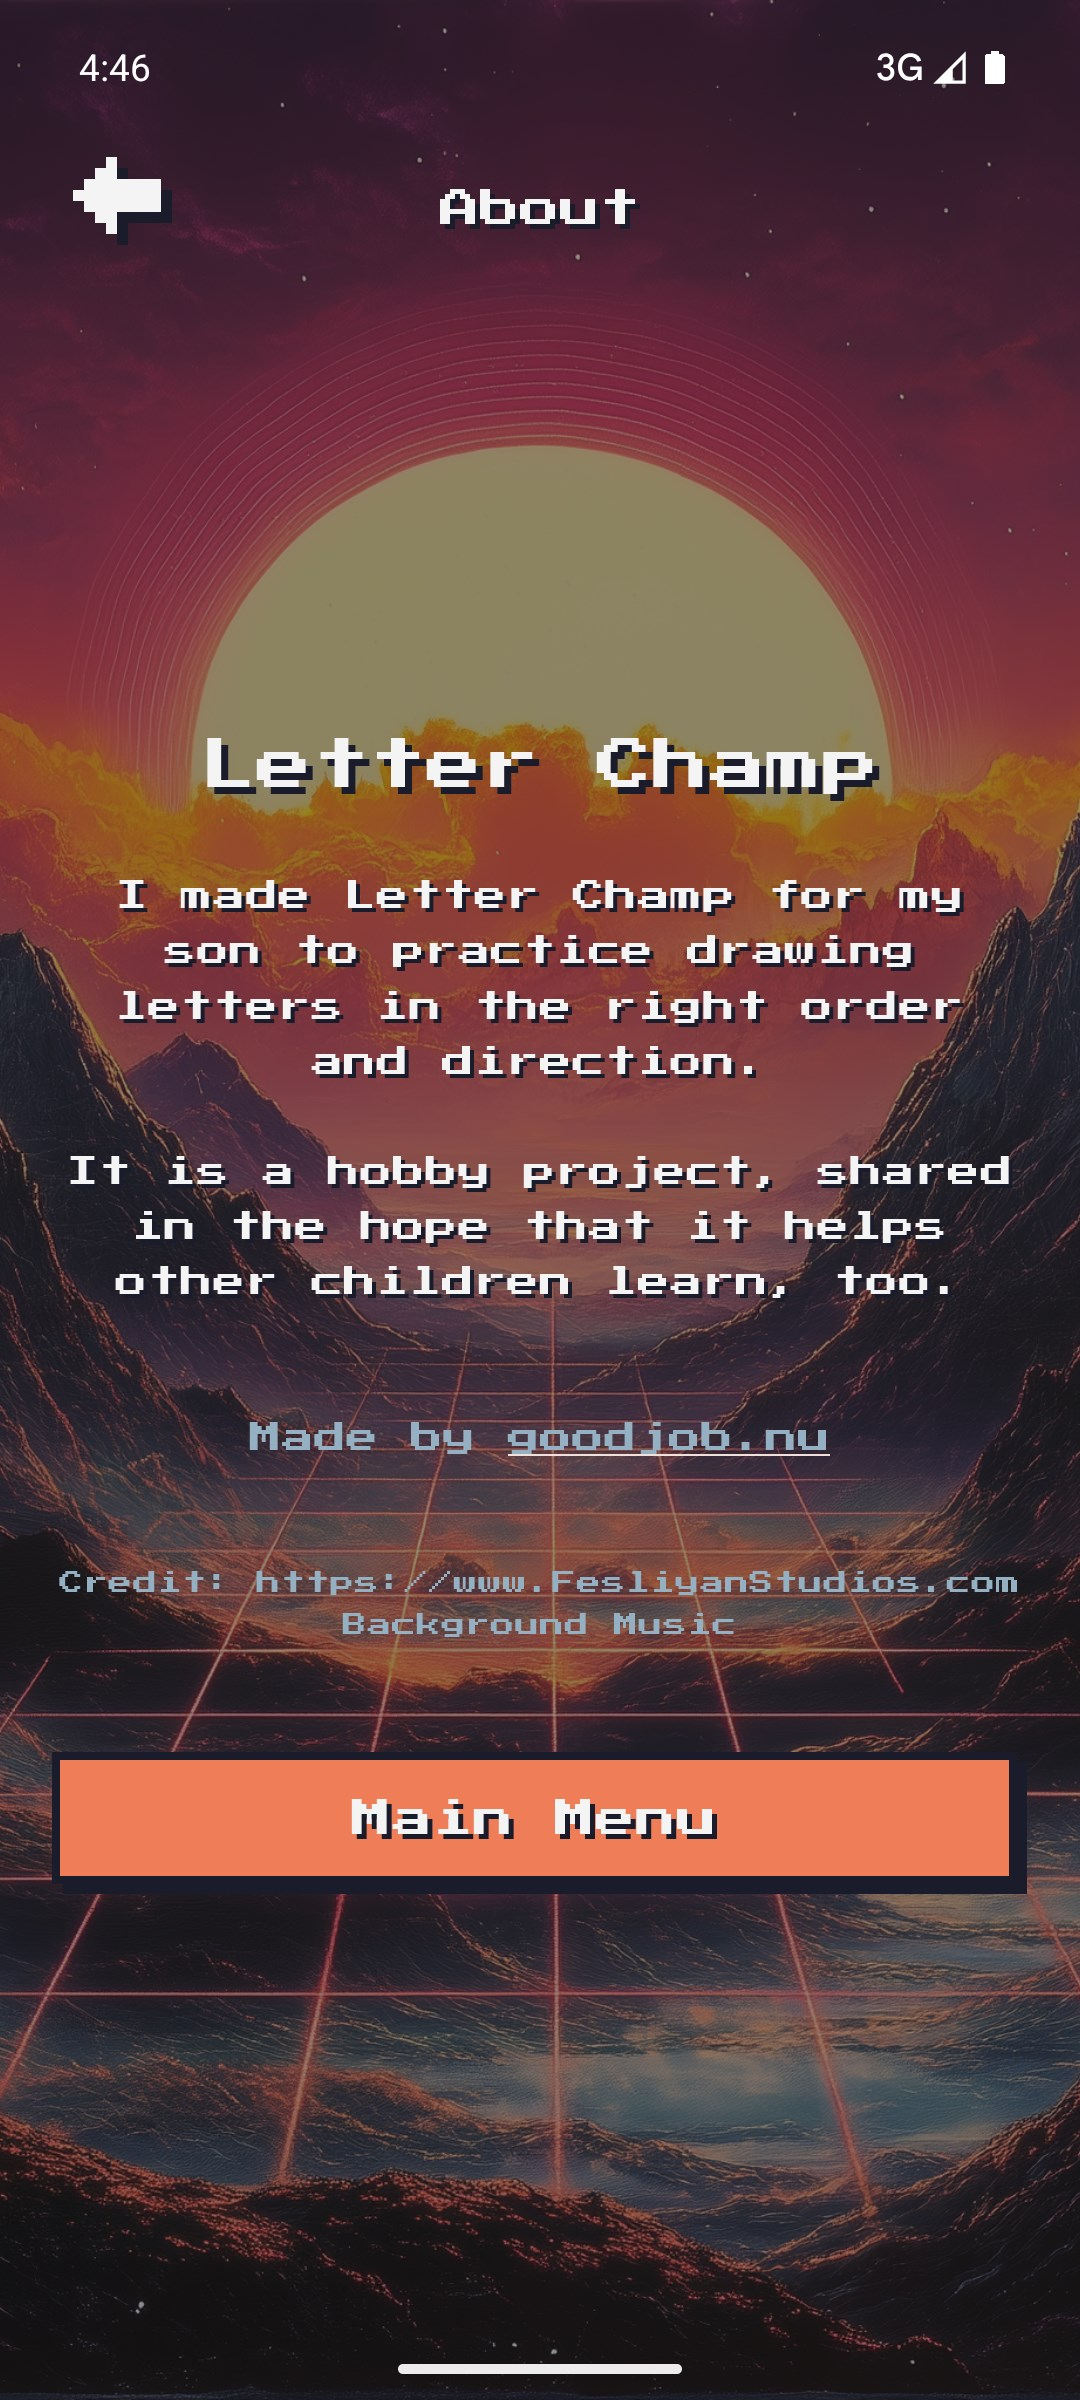
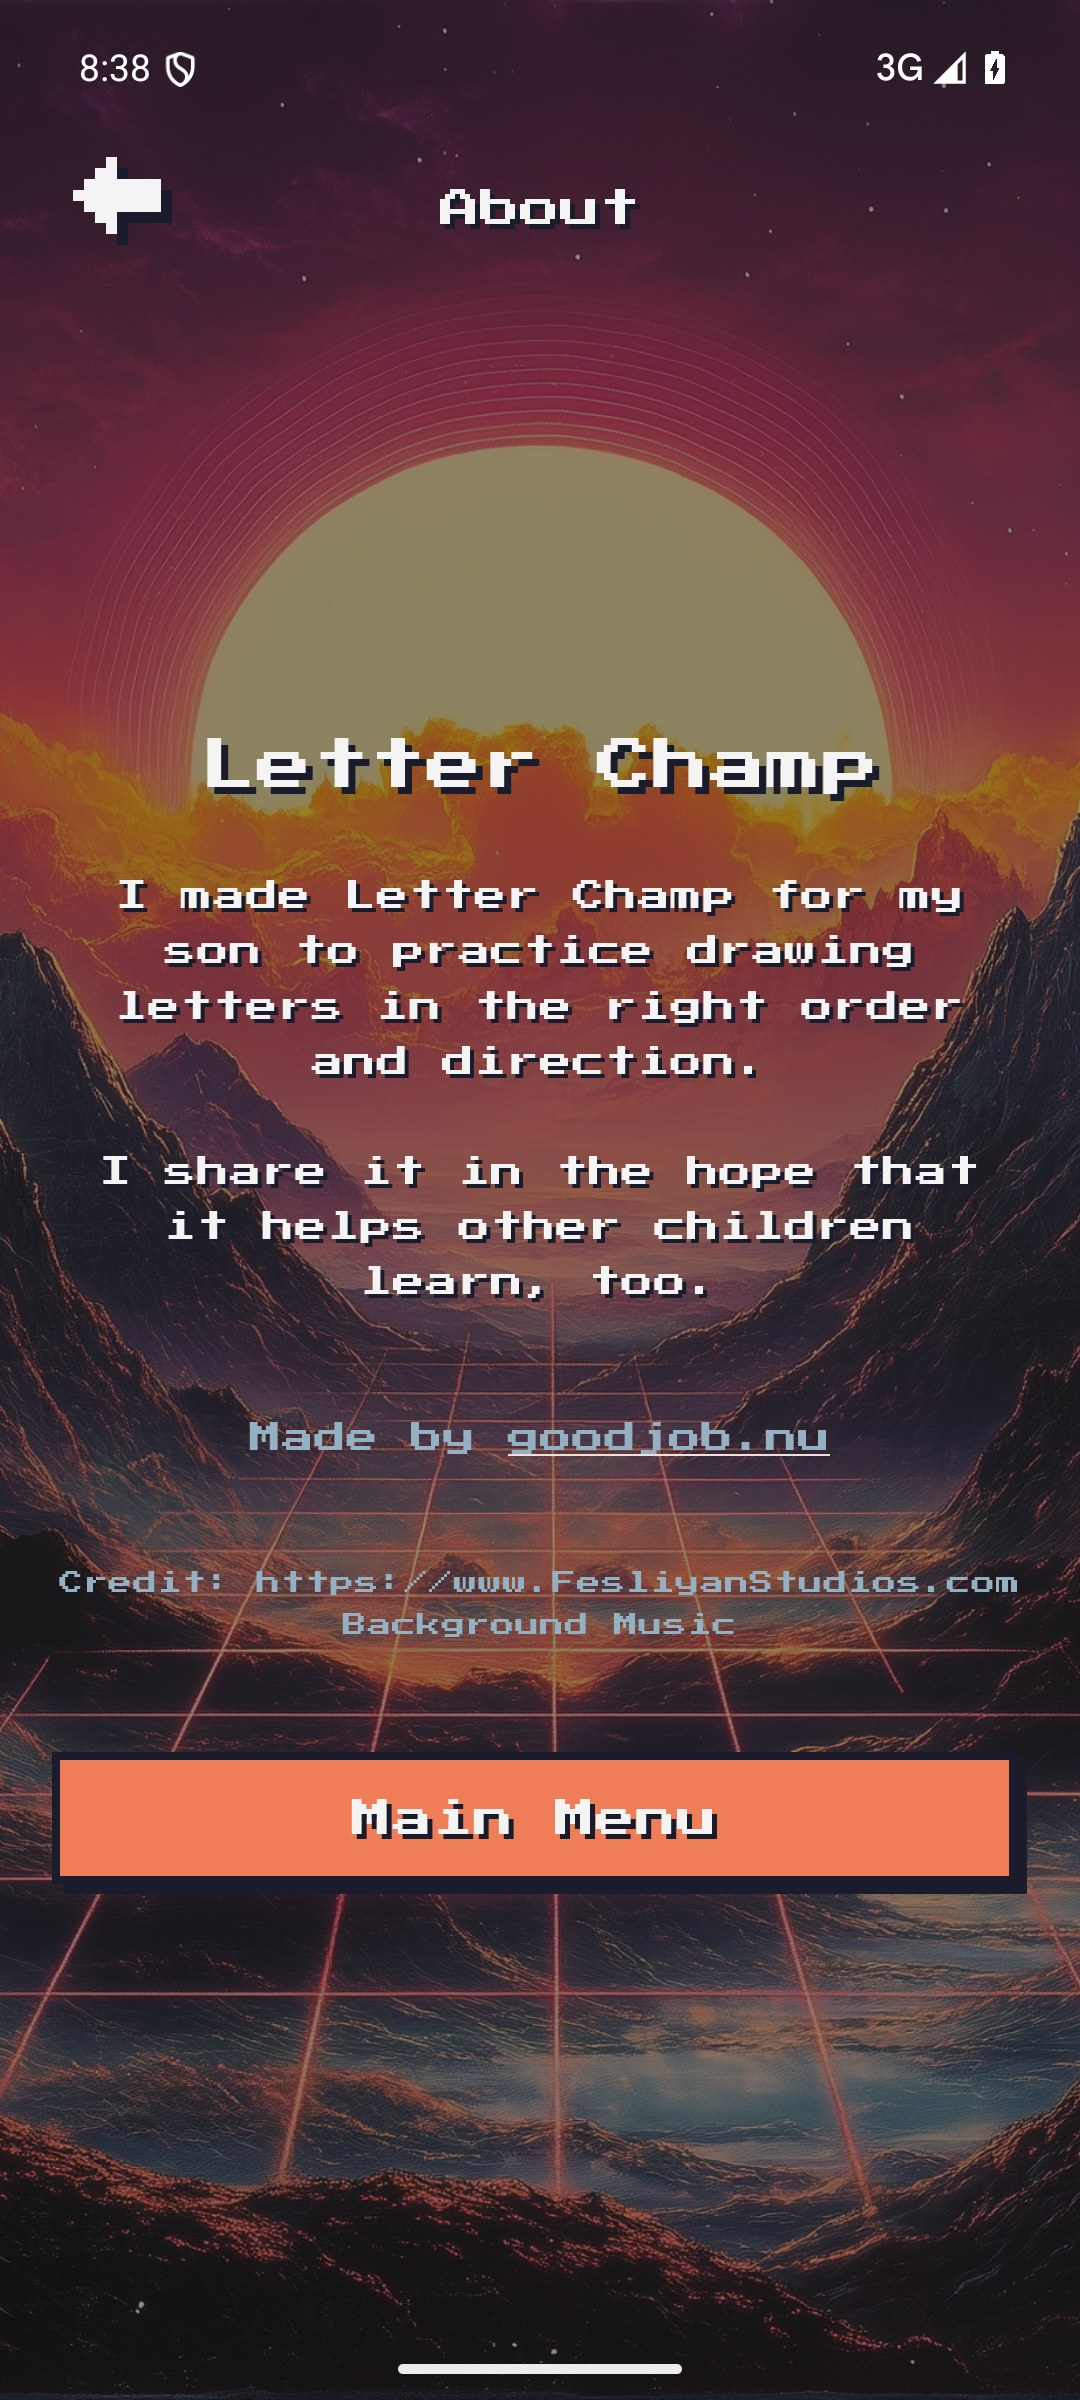
Reword the About text and the README introduction
The app and the README no longer call Letter Champ a hobby project. The About screenshot is retaken with the new text.

Changed region(s): [[0.1222, 0.4688, 0.9472, 0.5625], [0.1528, 0.0, 0.1833, 0.0312], [0.0611, 0.4688, 0.0917, 0.5]]

diff --git a/lib/screens/about_screen.dart b/lib/screens/about_screen.dart
@@ -111,8 +111,8 @@ class _AboutScreenState extends State<AboutScreen> {
                                         const SizedBox(height: 24),
                                         Text(
                                           _swedish
-                                              ? 'Jag gjorde Letter Champ för min son, så att han kunde öva på att skriva bokstäver i rätt ordning och riktning.\n\nDet är ett hobbyprojekt som jag delar i hopp om att fler barn får glädje av det.'
-                                              : 'I made Letter Champ for my son to practice drawing letters in the right order and direction.\n\nIt is a hobby project, shared in the hope that it helps other children learn, too.',
+                                              ? 'Jag gjorde Letter Champ för min son, så att han kunde öva på att skriva bokstäver i rätt ordning och riktning.\n\nJag delar det i hopp om att fler barn får glädje av det.'
+                                              : 'I made Letter Champ for my son to practice drawing letters in the right order and direction.\n\nI share it in the hope that it helps other children learn, too.',
                                           style: RetroText.style(
                                             12,
                                           ).copyWith(height: 1.7),

diff --git a/README.md b/README.md
@@ -6,7 +6,7 @@ Letter Champ is a Flutter game for tracing letters and numbers, with a retro loo
 
 The game plays offline. Settings, high scores, and your longest streak are saved on your device; no account is required.
 
-Letter Champ started as a small project for my son, to help him practice drawing letters in the right order and direction. It is a hobby project with no commercial plans, shared here in case it helps another child, or another parent learning Flutter.
+I made Letter Champ for my son, to help him practice drawing letters in the right order and direction. It is free and has no ads, and it is shared here so that more children can learn with it and anyone curious can see how it is built. Letter Champ is designed and built by Glenn Höglund at [goodjob](https://goodjob.nu).
 
 ## Screenshots
 
